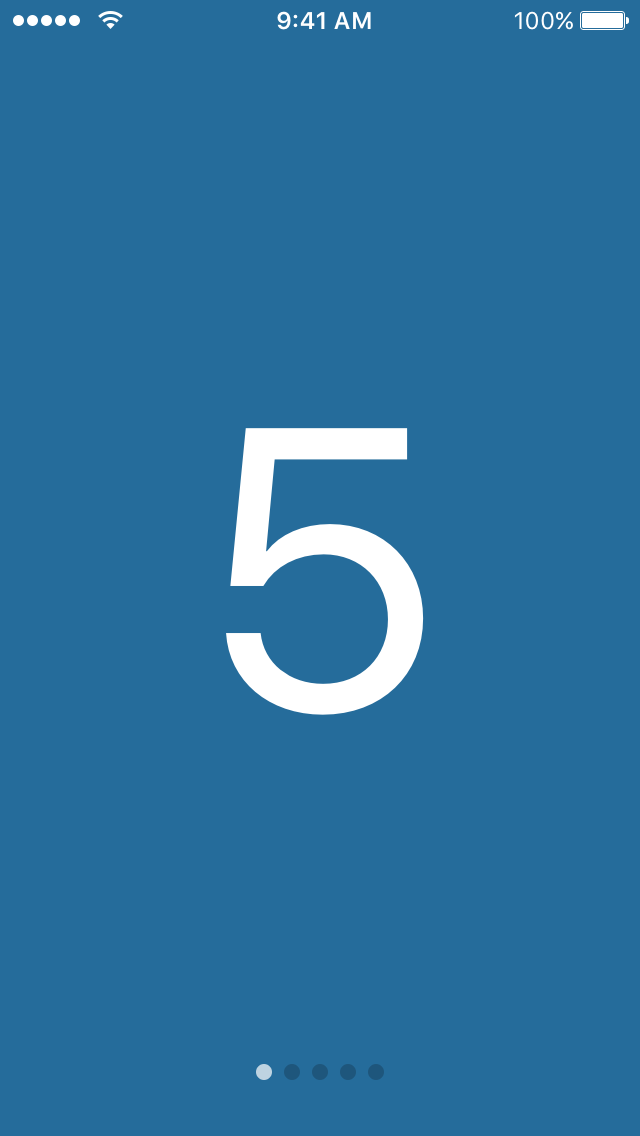
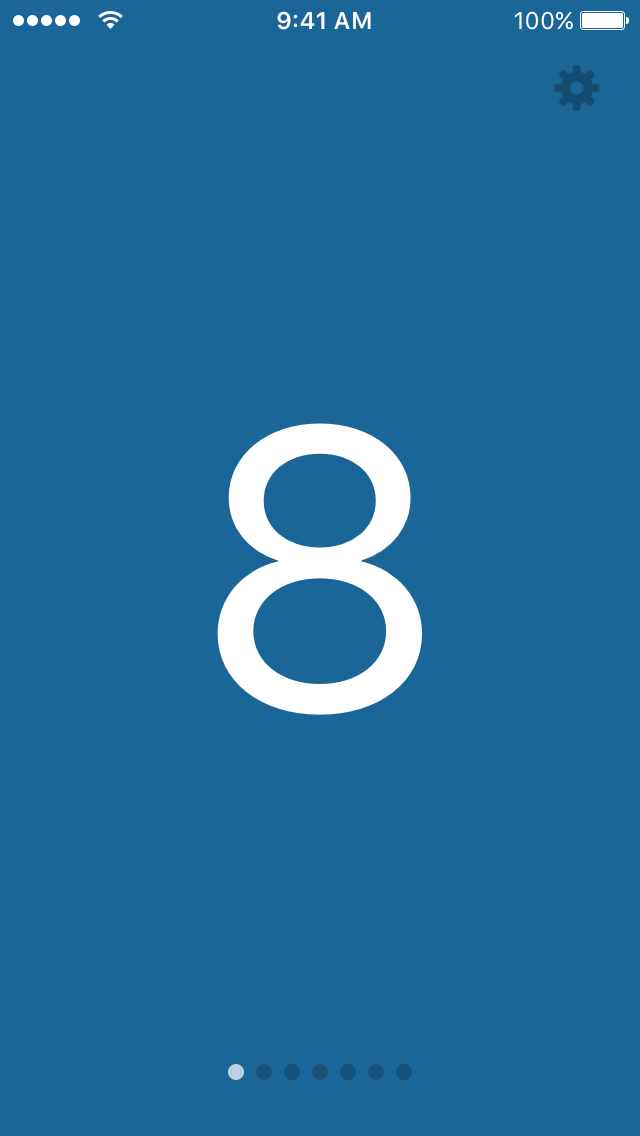
woo. this is what i submitted to the app store

diff --git a/ios/screenshots/screenshots.html b/ios/screenshots/screenshots.html
@@ -138,9 +138,9 @@
               <td>
                 
                 
-                <a href="./en-AU/iPhone4s-Launch6.png" target="_blank" class="screenshotLink">
+                <a href="./en-AU/iPhone4s-Launch5.png" target="_blank" class="screenshotLink">
                   <img class="screenshot"
-                         src="./en-AU/iPhone4s-Launch6.png"
+                         src="./en-AU/iPhone4s-Launch5.png"
                        style="width: 100%;"
                          alt="en-AU 3.5-Inch"
                 data-counter="5" />
@@ -212,9 +212,9 @@
               <td>
                 
                 
-                <a href="./en-AU/iPhone5-Launch6.png" target="_blank" class="screenshotLink">
+                <a href="./en-AU/iPhone5-Launch5.png" target="_blank" class="screenshotLink">
                   <img class="screenshot"
-                         src="./en-AU/iPhone5-Launch6.png"
+                         src="./en-AU/iPhone5-Launch5.png"
                        style="width: 100%;"
                          alt="en-AU 4-Inch"
                 data-counter="10" />
@@ -286,9 +286,9 @@
               <td>
                 
                 
-                <a href="./en-AU/iPhone6-Launch6.png" target="_blank" class="screenshotLink">
+                <a href="./en-AU/iPhone6-Launch5.png" target="_blank" class="screenshotLink">
                   <img class="screenshot"
-                         src="./en-AU/iPhone6-Launch6.png"
+                         src="./en-AU/iPhone6-Launch5.png"
                        style="width: 100%;"
                          alt="en-AU 4.7-Inch"
                 data-counter="15" />
@@ -360,9 +360,9 @@
               <td>
                 
                 
-                <a href="./en-AU/iPhone6Plus-Launch6.png" target="_blank" class="screenshotLink">
+                <a href="./en-AU/iPhone6Plus-Launch5.png" target="_blank" class="screenshotLink">
                   <img class="screenshot"
-                         src="./en-AU/iPhone6Plus-Launch6.png"
+                         src="./en-AU/iPhone6Plus-Launch5.png"
                        style="width: 100%;"
                          alt="en-AU 5.5-Inch"
                 data-counter="20" />

diff --git a/app/CardSwiper.js b/app/CardSwiper.js
@@ -1,4 +1,5 @@
 import React, { Component } from 'react';
+import please from 'pleasejs';
 
 import {
   StyleSheet,
@@ -8,6 +9,35 @@ import {
 import Swiper from 'react-native-swiper';
 import Card from './Card';
 import { CARDS_FOR_SEQUENCE } from './settingsValues';
+
+// 60
+// -
+// 25
+range = 60-25
+
+
+function colorForCard(index, maxColors) {
+  const baseColor = {
+    h: 204,
+    s: .70,
+    v: .1,
+  };
+
+  const min = 60;
+  const max = 25;
+  const range = max - min;
+  const step = range / maxColors;
+  const value = min + (step * index);
+  const percentage = value;
+
+  const colors = please.make_scheme(baseColor, {
+    golden: false,
+    colors_returned: maxColors,
+  });
+
+  const ccc = `hsl(204, 70%, ${percentage}%)`;
+  return ccc;
+}
 
 var styles = StyleSheet.create({
   dot: {
@@ -26,14 +56,14 @@ var styles = StyleSheet.create({
   },
 });
 
-const CARDS = [
-  { content: 1, color: '#37A1E8' },
-  { content: 2, color: '#3498DB' },
-  { content: 3, color: '#2E86C1' },
-  { content: 5, color: '#256C9B' },
-  { content: 8, color: '#16405B' },
-  { content: "💩", color: '#16405B' },
-];
+// const CARDS = [
+//   { content: 1, color: '#37A1E8' },
+//   { content: 2, color: '#3498DB' },
+//   { content: 3, color: '#2E86C1' },
+//   { content: 5, color: '#256C9B' },
+//   { content: 8, color: '#16405B' },
+//   { content: "💩", color: '#16405B' },
+// ];
 
 function cardsForSettings({cardSequence,  maxCard}) {
   let maxReached = false;
@@ -57,12 +87,12 @@ export default function CardSwiper({ settings }) {
     activeDot: <View style={[styles.dot, styles.dotActive]} />,
   };
 
-  console.info('Settings:', settings);
+  const allCards = cardsForSettings(settings);
 
   return (
     <Swiper {...swiperProps}>
-      {cardsForSettings(settings).map((cardData) => {
-        return <Card key={cardData} color="#3498DB">{cardData}</Card>
+      {allCards.map((cardData, index) => {
+        return <Card key={cardData} color={colorForCard(index, allCards.length)}>{cardData}</Card>
       })}
     </Swiper>
   );

diff --git a/ios/AgileCardsUITests/AgileCardsUITests.swift b/ios/AgileCardsUITests/AgileCardsUITests.swift
@@ -23,25 +23,27 @@ class Agile_CardsUITests: XCTestCase {
     super.tearDown()
   }
   
+  
+  // snapshot("Launch1")
   func testExample() {
+    
     let app = XCUIApplication()
-    let screens = "   8   1   2   3   5   8   1"
-
+    app.otherElements["   13   0   1   2   3   5   8   13   0"].childrenMatchingType(.Other).matchingIdentifier("  0").elementBoundByIndex(0).otherElements[" 0"].tap()
     
-    app.otherElements[screens].childrenMatchingType(.Other).matchingIdentifier("  1").elementBoundByIndex(0).otherElements[" 1"].tap()
+    app.otherElements["   13   0   1   2   3   5   8   13   0"].otherElements[" 1"].tap()
     snapshot("Launch1")
+    app.otherElements["   13   0   1   2   3   5   8   13   0"].otherElements[" 2"].tap()
     
-    app.otherElements[screens].otherElements[" 2"].tap()
+    app.otherElements["   13   0   1   2   3   5   8   13   0"].otherElements[" 3"].tap()
     snapshot("Launch2")
-    
-    app.otherElements[screens].otherElements[" 3"].tap()
+    app.otherElements["   13   0   1   2   3   5   8   13   0"].otherElements[" 5"].tap()
     snapshot("Launch3")
-    
-    app.otherElements[screens].otherElements[" 5"].tap()
+    app.otherElements["   13   0   1   2   3   5   8   13   0"].otherElements[" 8"].tap()
     snapshot("Launch4")
+    app.otherElements["  "].tap()
+    snapshot("Launch5")
     
-    app.otherElements[screens].childrenMatchingType(.Other).matchingIdentifier("  8").elementBoundByIndex(0).otherElements[" 8"].tap()
-    snapshot("Launch6")
+    
     
   }
   

diff --git a/app/Nav.js b/app/Nav.js
@@ -29,9 +29,7 @@ const styles = StyleSheet.create({
 
 const { height: windowHeight, width: windowWidth } = Dimensions.get('window');
 
-console.log('windowHeight:', windowHeight);
-console.log('windowWidth:', windowWidth);
-
+const settingsHeight = 311;
 const popupOffset = 10
 const popupDisplayArea = {
   x: popupOffset,
@@ -52,15 +50,13 @@ export default class Nav extends Component {
       const newState = {
         isVisible: true,
         buttonRect: {x: px, y: py, width: width, height: height},
-        popupHeight: Math.min(popupDisplayArea.height - (py + height) - 8, 421)
+        popupHeight: Math.min(popupDisplayArea.height - (py + height) - 8, settingsHeight)
       };
-      console.log(newState);
       this.setState(newState);
     });
   };
 
   closePopover = (ev) => {
-    console.log('closePopover called with target of', ev.target);
     this.setState({isVisible: false});
   };
 

diff --git a/app/Settings.js b/app/Settings.js
@@ -116,12 +116,12 @@ export default class Settings extends Component {
           </Cell>
         </Section>
 
-        <Section label="Extras">
+        {/*<Section label="Extras">
           <Cell style={[styles.cell, styles.splitCell]}>
             <Text style={styles.cellText}>Last card emoji</Text>
             <Switch />
           </Cell>
-        </Section>
+        </Section> */}
       </TableView>
     );
   }

diff --git a/index.ios.js b/index.ios.js
@@ -12,6 +12,7 @@ import Nav from './app/Nav';
 
 import { FIBONACCI } from './app/settingsValues';
 
+console.disableYellowBox = true;
 
 var Overlay = require('react-native-overlay');
 

diff --git a/ios/AgileCards/AppDelegate.m b/ios/AgileCards/AppDelegate.m
@@ -21,8 +21,12 @@
   
   NSURL *jsCodeLocation;
   
-  jsCodeLocation = [NSURL URLWithString:@"http://josh.local:8081/index.ios.bundle?platform=ios&dev=true"];
-//  jsCodeLocation = [[NSBundle mainBundle] URLForResource:@"main" withExtension:@"jsbundle"];
+  #ifdef DEBUG
+    jsCodeLocation = [NSURL URLWithString:@"http://josh.local:8081/index.ios.bundle?platform=ios&dev=true"];
+  #else
+    jsCodeLocation = [[NSBundle mainBundle] URLForResource:@"main" withExtension:@"jsbundle"];
+  #endif
+
   
   RCTRootView *rootView = [[RCTRootView alloc] initWithBundleURL:jsCodeLocation
                                                       moduleName:@"AgileCards"
